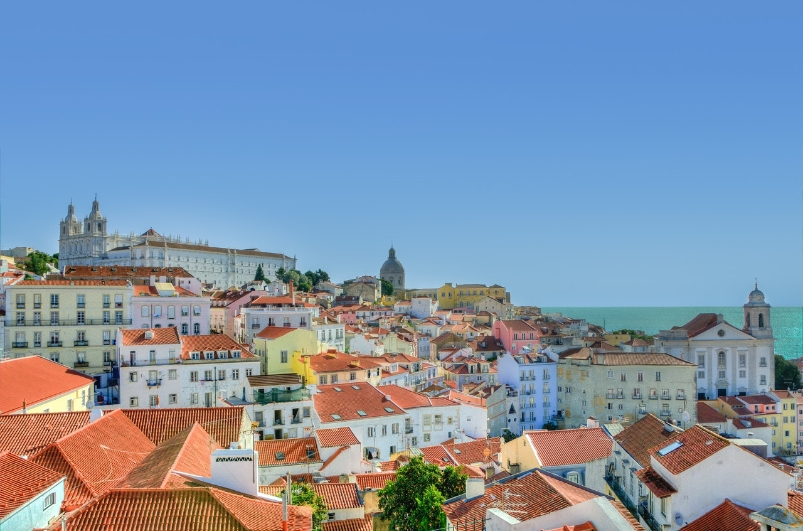
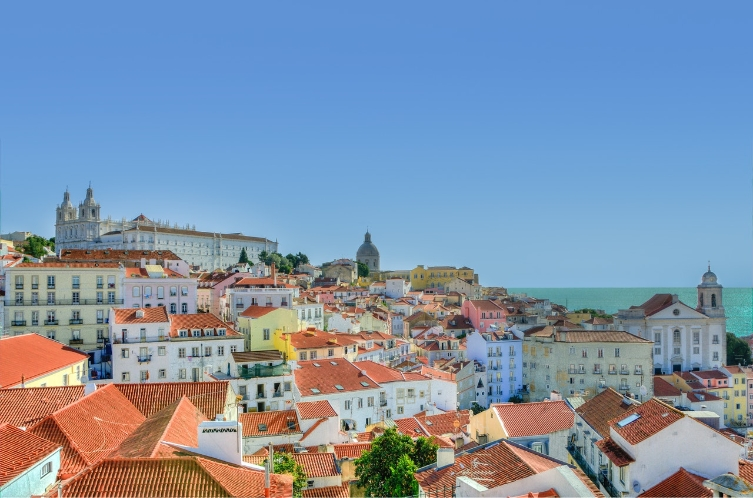
fixed lighthouse

diff --git a/Markup/index.html b/Markup/index.html
@@ -47,43 +47,43 @@
           </form>
           <h2 class="blog-title">Latest from the blog</h2>
           <div class="vertical-articles">
-          <article class="article">
-            <h3 class="vertical-article-title">
-              The Electronic AppWrapper was the first commercial electronic
-            </h3>
-            <p class="article-text">
-              Application software is software designed to perform a group of
-              coordinated functions, task
-            </p>
-            <p class="article-readmore">
-              <a class="article-link" href="#">READ MORE…</a>
-            </p>
-          </article>
-          <article class="article">
-            <h3 class="vertical-article-title">
-              The Electronic AppWrapper was the first commercial electronic
-            </h3>
-            <p class="article-text">
-              Application software is software designed to perform a group of
-              coordinated functions, task
-            </p>
-            <p class="article-readmore">
-              <a class="article-link" href="#">READ MORE…</a>
-            </p>
-          </article>
-          <article class="article">
-            <h3 class="vertical-article-title">
-              The Electronic AppWrapper was the first commercial electronic
-            </h3>
-            <p class="article-text">
-              Application software is software designed to perform a group of
-              coordinated functions, task
-            </p>
-            <p class="article-readmore">
-              <a class="article-link" href="#">READ MORE…</a>
-            </p>
-          </article>
-        </div>
+            <article class="article">
+              <h3 class="vertical-article-title">
+                The Electronic AppWrapper was the first commercial electronic
+              </h3>
+              <p class="article-text">
+                Application software is software designed to perform a group of
+                coordinated functions, task
+              </p>
+              <p class="article-readmore">
+                <a class="article-link" href="#">READ MORE…</a>
+              </p>
+            </article>
+            <article class="article">
+              <h3 class="vertical-article-title">
+                The Electronic AppWrapper was the first commercial electronic
+              </h3>
+              <p class="article-text">
+                Application software is software designed to perform a group of
+                coordinated functions, task
+              </p>
+              <p class="article-readmore">
+                <a class="article-link" href="#">READ MORE…</a>
+              </p>
+            </article>
+            <article class="article">
+              <h3 class="vertical-article-title">
+                The Electronic AppWrapper was the first commercial electronic
+              </h3>
+              <p class="article-text">
+                Application software is software designed to perform a group of
+                coordinated functions, task
+              </p>
+              <p class="article-readmore">
+                <a class="article-link" href="#">READ MORE…</a>
+              </p>
+            </article>
+          </div>
         </aside>
         <div class="main-site-right">
           <div class="wrapper-right">
@@ -95,9 +95,9 @@
               </h3>
             </div>
             <img
-              src="images/main-image.png"
+              src="images/main-image-full.jpg"
               class="main-image"
-              alt="main-image"
+              alt="Lisbon"
             />
           </div>
           <div class="horizontal-articles">

diff --git a/Markup/css/index.css b/Markup/css/index.css
@@ -119,7 +119,9 @@ a:hover {
 }
 
 .main-image {
-  width: 100%;
+  width: 100%; 
+  height: 335px; 
+  object-fit: cover;
 }
 
 .box-with-text {
